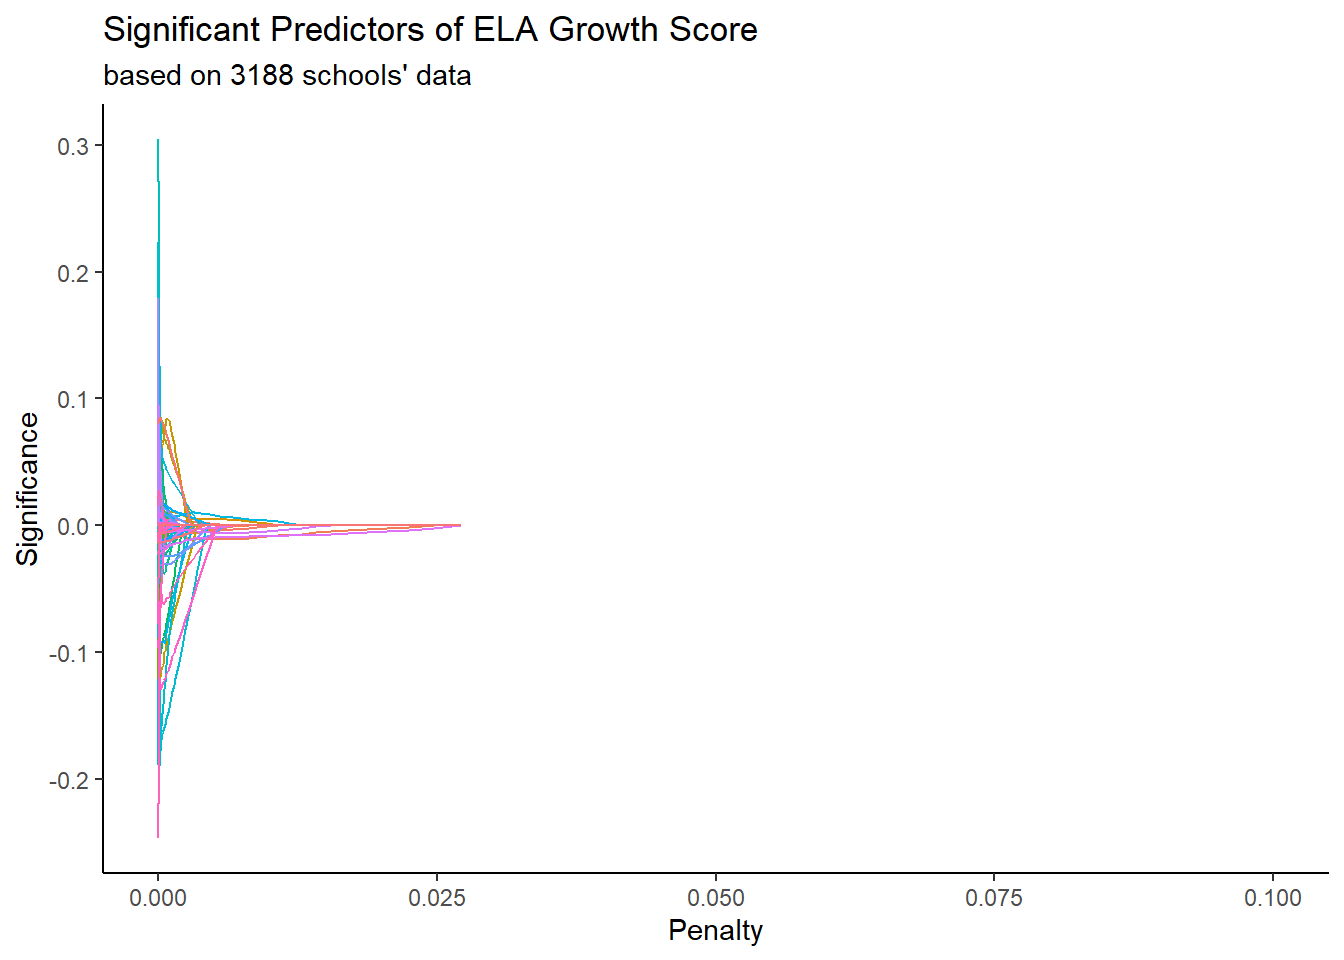
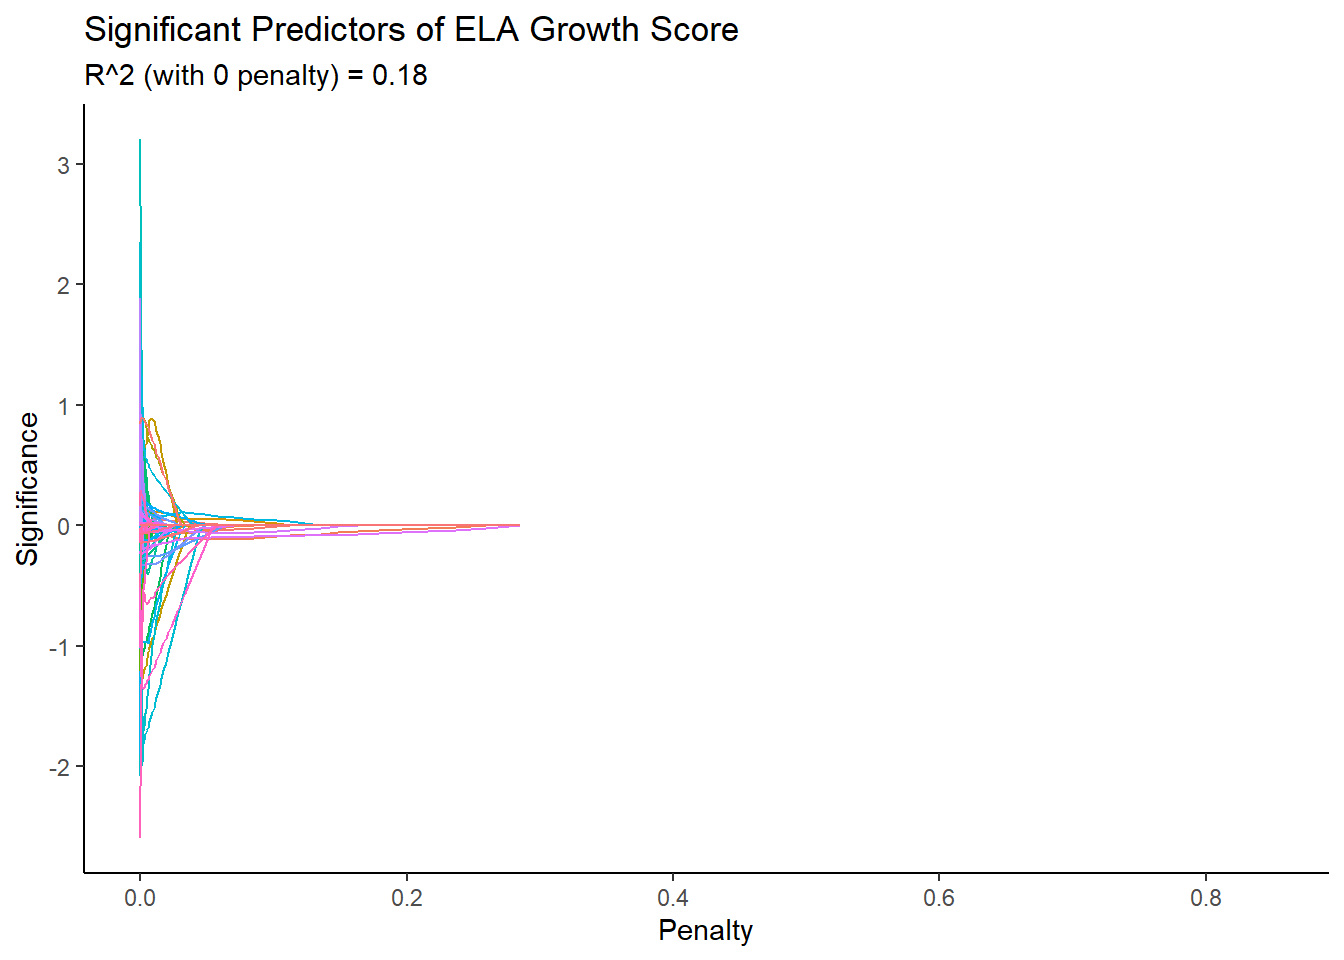
updated lasso

diff --git a/docs/model.html b/docs/model.html
@@ -198,7 +198,7 @@ ul.task-list li input[type="checkbox"] {
 <h1>LASSO</h1>
 <section id="why-lasso" class="level2">
 <h2 class="anchored" data-anchor-id="why-lasso">Why LASSO</h2>
-<p>To investigate the significance of predictors, we will utilize a technique known as LASSO (Least Absolute Shrinkage and Selection Operator). This approach involves identifying the most influential predictors out of numerous possibilities that explain the majority of the variation in the outcome variable. In our case, the outcome variable is the specific educational outcome metric we are analyzing, while the predictors are various characteristics of the school.</p>
+<p>To investigate the significance of predictors, we will utilize a technique known as LASSO (Least Absolute Shrinkage and Selection Operator). This approach involves identifying the most influential predictors out of numerous possibilities that explain the most variation in the outcome variable. In our case, the outcome variable is the specific educational outcome metric we are analyzing, while the predictors are various characteristics of the school.</p>
 </section>
 <section id="how-to-interpret-a-lasso-graph" class="level2">
 <h2 class="anchored" data-anchor-id="how-to-interpret-a-lasso-graph">How to interpret a LASSO graph</h2>
@@ -214,7 +214,7 @@ ul.task-list li input[type="checkbox"] {
 <h1>Results</h1>
 <section id="grade-cohort-standardized-gcs-scores" class="level2">
 <h2 class="anchored" data-anchor-id="grade-cohort-standardized-gcs-scores">Grade Cohort Standardized (GCS) Scores</h2>
-<p>First, we examine the significant predictors for the GCS Score at school level. The LASSO graph shows that the percentage of students who are Asian is a relatively strong predictor. However, the most significant predictors are the percentage of students receiving free/reduced lunch and the percentage of students considered economically disadvantaged.</p>
+<p>First, we examine the significant predictors for the GCS Score at school level. This LASSO graph shows that the percentage of students who are Asian is a relatively strong positive predictor of GCS Score. However, the most significant predictors are the percentage of students receiving free/reduced lunch and the percentage of students considered economically disadvantaged (both with a negative correlation with the GCS Score).</p>
 <div class="cell">
 <div class="cell-output-display">
 <p><img src="model_files/figure-html/perform lasso pt1-1.png" class="img-fluid" width="672"></p>
@@ -223,7 +223,7 @@ ul.task-list li input[type="checkbox"] {
 </section>
 <section id="ela-math-growth-scores" class="level2">
 <h2 class="anchored" data-anchor-id="ela-math-growth-scores">ELA &amp; Math Growth Scores</h2>
-<p>Moving on to the growth scores for ELA and Math, we observe that all the predictors converge to zero much faster than in the previous two graphs. This is evident from the absolute numbers on the X-axis, which are much smaller (around 0.01 - 0.03 penalty) compared to the previous graphs (around 0.1 - 0.15 penalty). This indicates that none of the predictors are as significant as those in the previous graphs. Nevertheless, there are some predictors that are marginally significant, including the ones identified earlier, as well as two additional categories related to the grades served by the school.</p>
+<p>Moving on to the growth scores for ELA and Math, we observe that all the predictors converge to zero much faster than in the previous two graphs. This indicates that none of the predictors are as significant as those in the previous graphs. As well as converging to zero faster, the r-squared value (in the subtitle of the graphs) is much lower in the models for growth scores. This is further evidence that the predictors we have in our data account for less variability in the growth scores compared to the GCS score.</p>
 <div class="cell">
 <div class="cell-output-display">
 <p><img src="model_files/figure-html/perform lasso pt2-1.png" class="img-fluid" width="672"></p>
